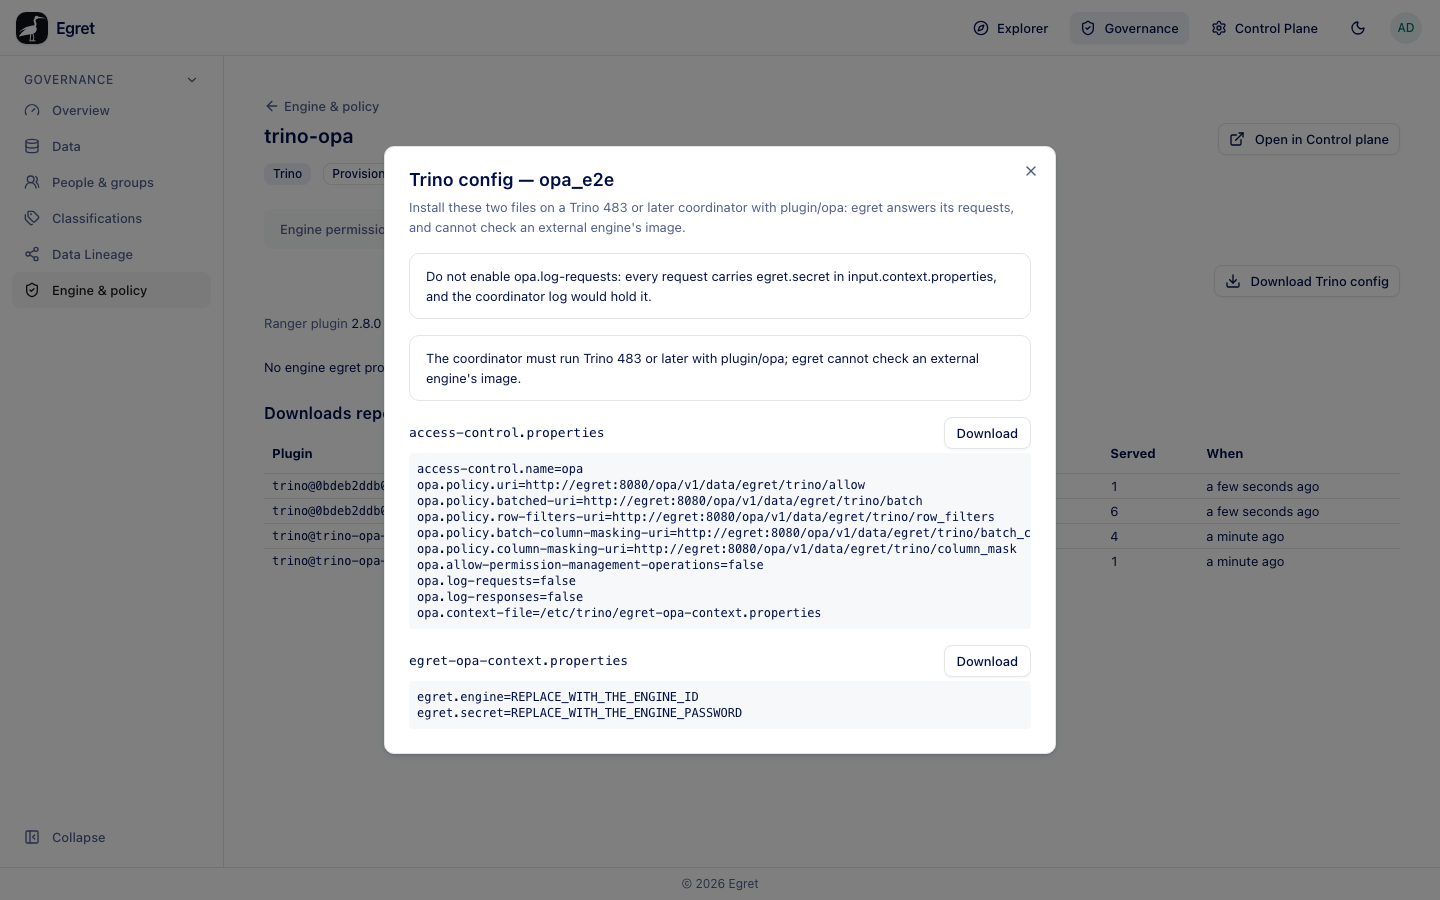
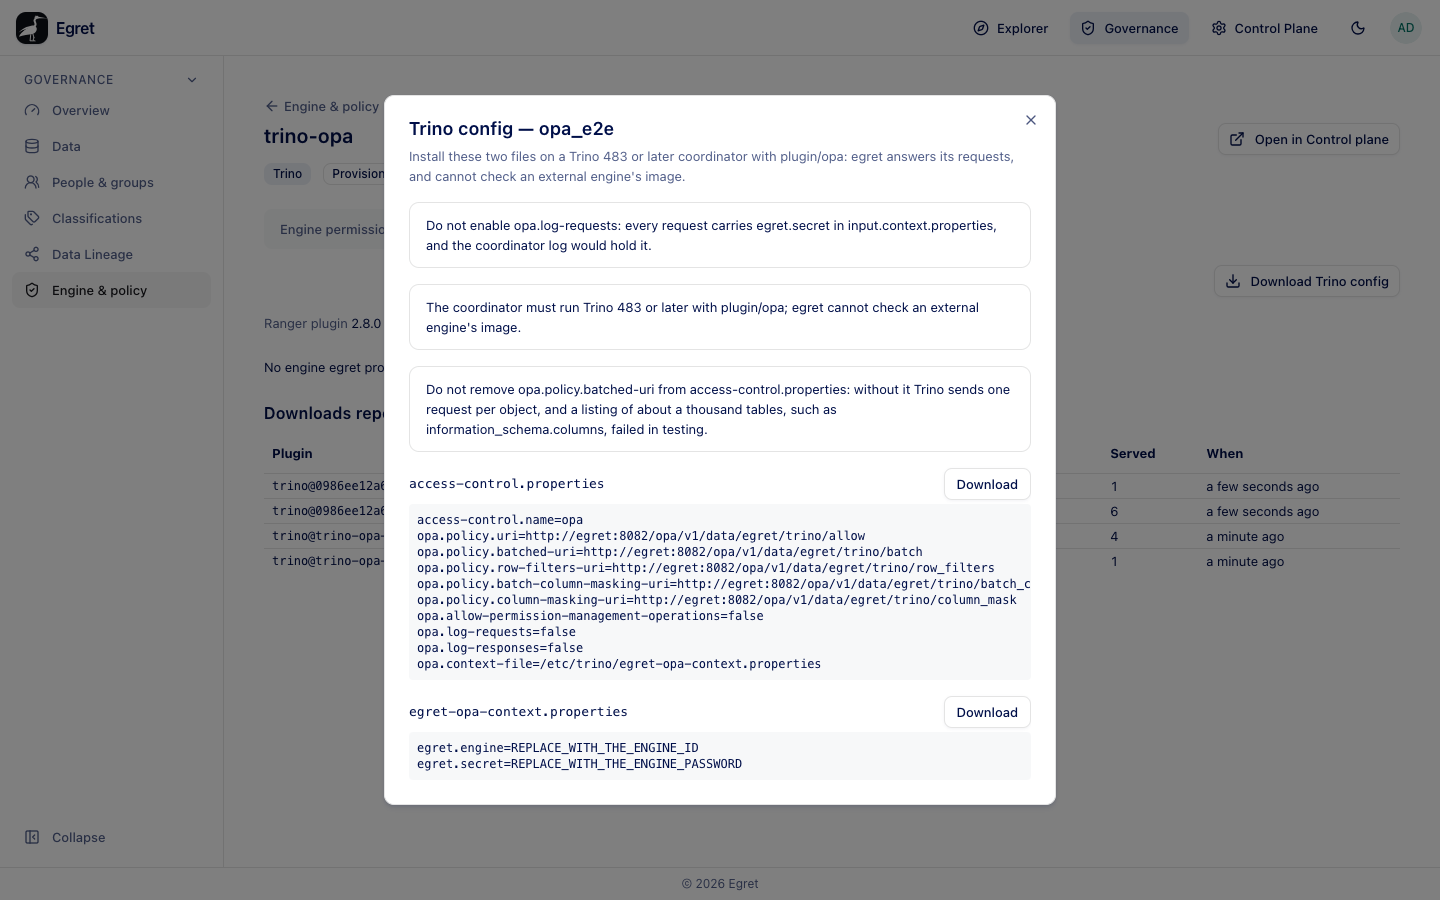
docs(opa): re-shoot the Trino config dialog on the current image (#73)
Shows the opa.policy.batched-uri warning and the OPA listener URLs on
port 8082; the old shot came from an image older than both.

diff --git a/platform/data-governance/engines-and-policy/trino-on-opa.md b/platform/data-governance/engines-and-policy/trino-on-opa.md
@@ -141,7 +141,7 @@ Egret does not restart or reconfigure an external engine. Its operator installs 
 
 The engine's **Plugin** tab in **Governance → Engine & policy** has **Download Trino config**, which shows the same two files for a profile on OPA, with the engine id and the secret as placeholders (`GET /api/control-plane/policies/services/{service}/trino-config`). Its note reads *Install these two files on a Trino 483 or later coordinator with plugin/opa: egret answers its requests, and cannot check an external engine's image.*, and its warnings include *The coordinator must run Trino 483 or later with plugin/opa; egret cannot check an external engine's image.*
 
-![The Trino config dialog of opa_e2e on OPA: the install note, the opa.log-requests warning, the Trino 483 note, and the two files with Download buttons](/img/platform/admin/gov-opa-trino-config.png)
+![The Trino config dialog of opa_e2e on OPA: the install note, the opa.log-requests warning, the Trino 483 note, the opa.policy.batched-uri warning, and the two files with Download buttons, their URLs on the OPA listener port 8082](/img/platform/admin/gov-opa-trino-config.png)
 
 **Keep `opa.policy.batched-uri`.** Egret's `access-control.properties` sets it, and the files carry the warning *Do not remove opa.policy.batched-uri from access-control.properties: without it Trino sends one request per object, and a listing of about a thousand tables, such as information_schema.columns, failed in testing.* Measured: without it, `information_schema.columns` over a catalog of 1 003 tables failed in 30 of 30 runs with *Failed to query OPA backend*, because the plugin's own HTTP client overflowed its queue of 1 024 requests. With it, the same query took 1 024 requests and succeeded.
 
